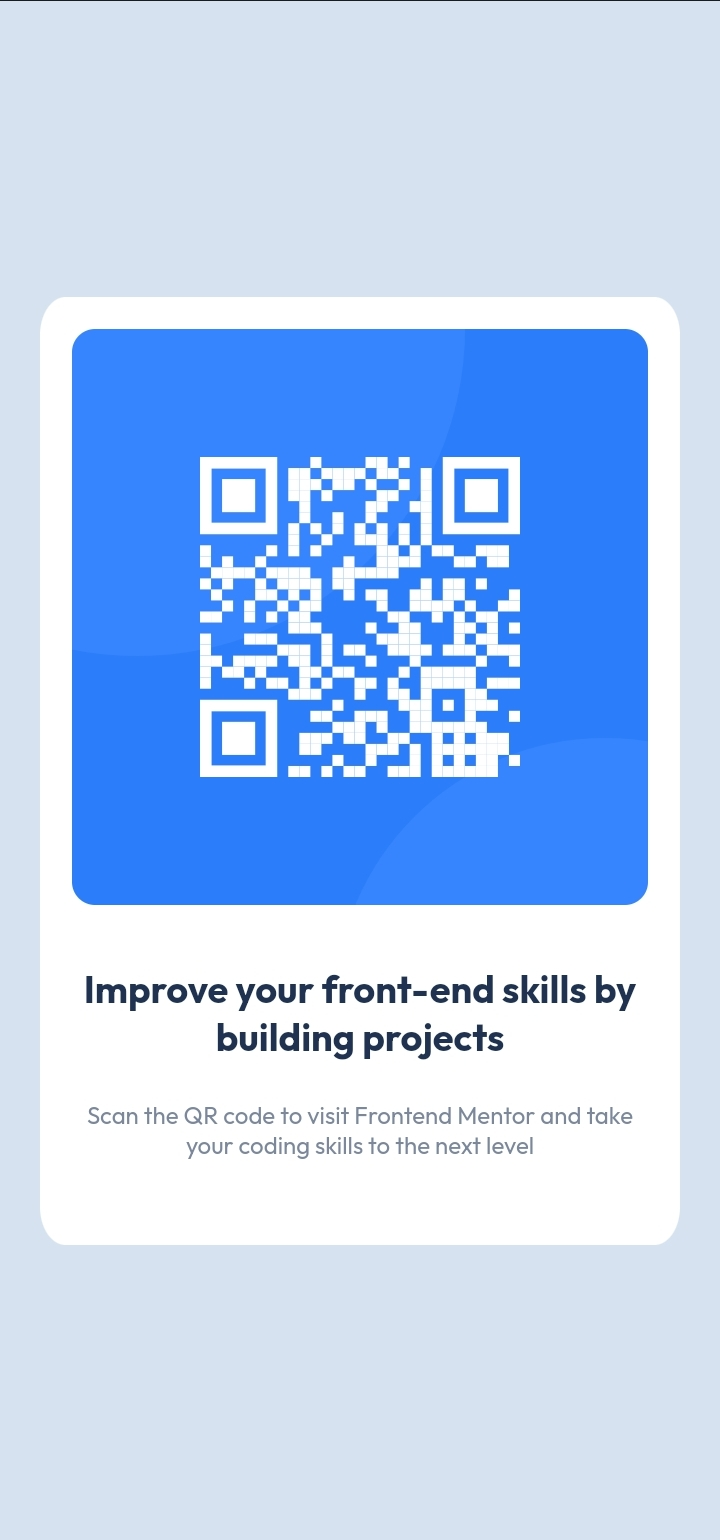
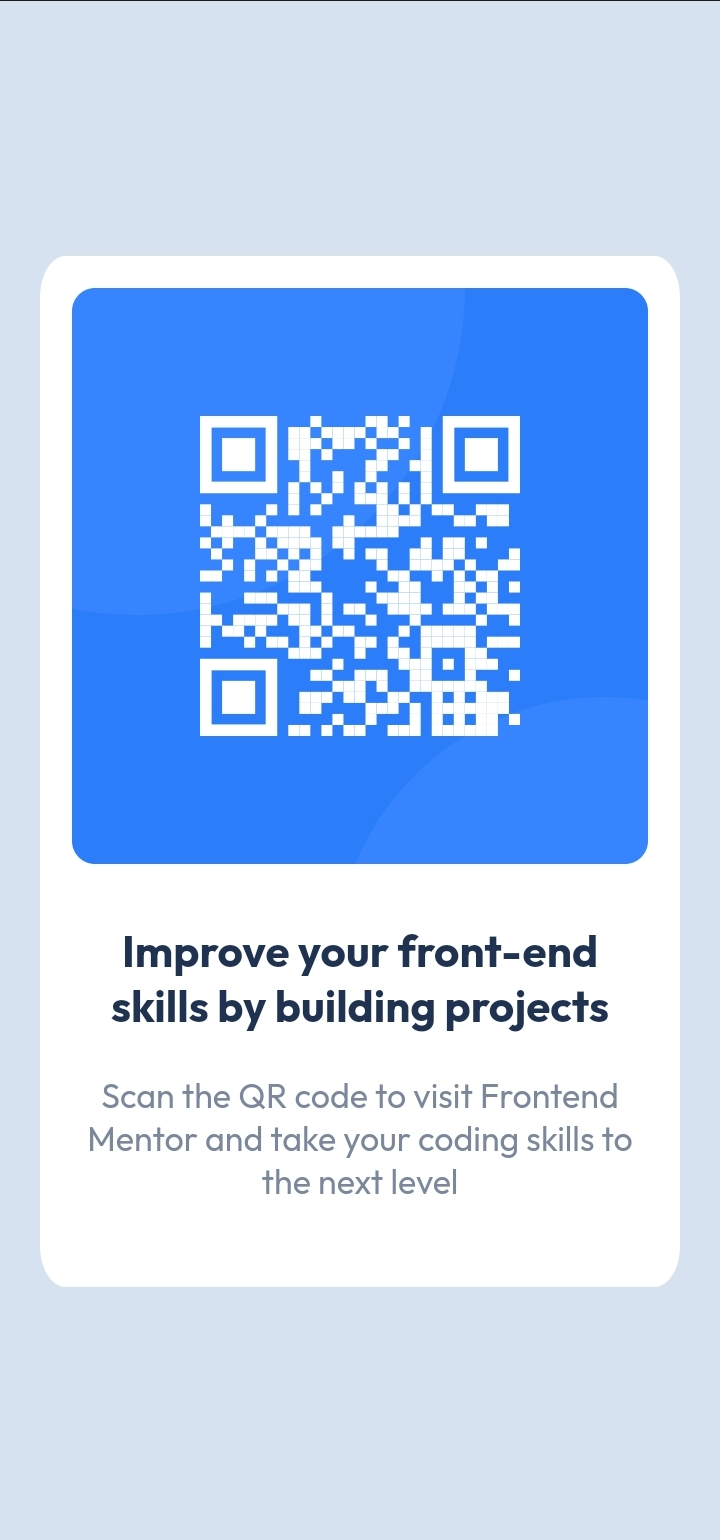
update screenshot.jpg

diff --git a/style.css b/style.css
@@ -39,7 +39,7 @@ p {
 
 p:last-child {
   color: hsl(220, 15%, 55%);
-  font-size: 17px;
+  font-size: 16px;
   font-weight: 400;
   padding-top: 20px;
 }
